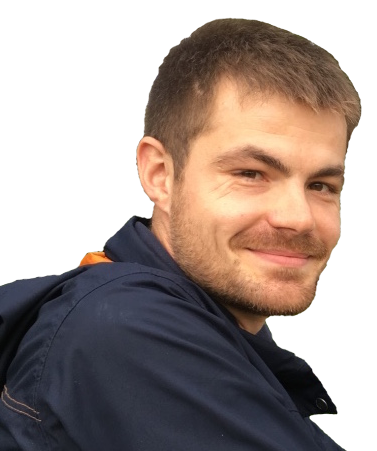
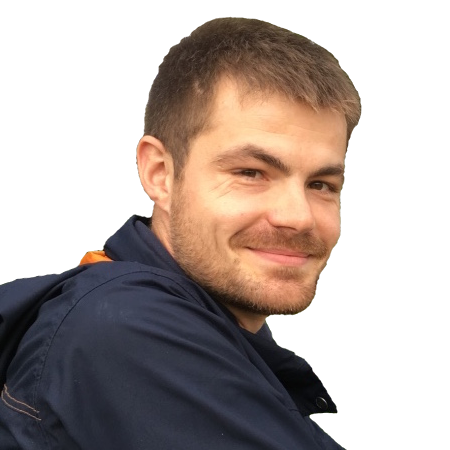
finish tablet and desktop homepage

diff --git a/style.css b/style.css
@@ -11,6 +11,14 @@ body {
 
 h1 {
     font-size: 1.3em;
+    margin-left: 5px;
+    text-align: center;
+}
+
+header {
+    display: flex;
+    justify-content: space-around;
+    align-items: center;
 }
 
 /* Sidenav menu */
@@ -87,19 +95,34 @@ main {
     height: 90vh;
 }
 
+.side {
+    display: flex;
+    flex-direction: column;
+    align-items: center;
+    justify-content: space-around;
+    height: 55vh;
+}
+
 h2 {
     font-size: 1.2em;
     color: #FEAF4C;
 }
 
-img {
+.home .profile-pic-mobile {
     display: block;
-    width: 60vw;
-    height: auto;
+    width: 175px;
+    height: 175px;
     margin: 10px auto;
+    background-image: url('img/profil_velo_mobile.png');
+    background-position: center;
+    background-size: cover;
     background-color: #5c627c;
     border: 2px solid #FEAF4C;
     border-radius: 50%;
+}
+
+.home p {
+    width: 80vw;
 }
 
 .btn {
@@ -107,4 +130,134 @@ img {
     color: #43485B;
     font-weight: bold;
     width: 60vw;
+    max-width: 250px;
+}
+
+/* !! Nav version tablette et desktop, cachée en version mobile !! */
+
+.highres-nav {
+    display: none;
+}
+
+.profile-pic {
+    display: none;
+}
+
+@media screen and (min-width: 672px) {
+
+    /* BODY */
+
+    body {
+        margin: 10px 20px ;
+    }
+
+    /* HEADER */
+
+    /* !! Nav version mobile, cachée en version tablette et desktop !! */
+    #openBtn {
+        display: none;
+    }
+
+    header {
+        justify-content: space-between;
+    }
+
+    .highres-nav {
+        display: block;
+    }
+
+    nav ul {
+        display: flex;
+        justify-content: space-between;
+        align-items: center;
+    }
+
+    nav li {
+        font-size: 0.8em;
+        list-style-type: none;
+    }
+
+    nav a {
+        color: #FBEFD2;
+        text-decoration: none;
+        margin-right: 10px;
+        padding: 2px 4px;
+        box-shadow: 0px 0px 2px black;
+    }
+
+    h1 {
+        font-size: 0.9em;
+    }
+}
+
+@media screen and (min-width: 990px) {
+
+    h1 {
+        font-size: 1.7em;
+    }
+
+    .home .profile-pic-mobile {
+        display: none;
+    }
+
+    .home {
+      display: grid; 
+      grid-template-columns: 50% 50%; 
+      grid-template-rows: 1fr; 
+      gap: 0px 0px; 
+      grid-template-areas: 
+        "profile-pic side"; 
+    }
+    
+    .profile-pic {
+        grid-area: profile-pic;
+        display: block;
+    }
+
+    .profile-pic img {
+        position: absolute;
+        bottom: 0;
+        left: 0;
+        width: auto;
+        height: 80vh;
+        max-width: 60vw;
+    }
+    
+    .side {
+        grid-area: side;
+        display: flex;
+        flex-direction: column;
+        align-content: space-around;
+        height: 90vh;
+        padding-top: 20px;
+    }
+
+    h2 {
+        font-size: 1.6em;
+    }
+
+    .catchphrase {
+        max-width: 40vw;
+        font-size: 1.5em;
+    }
+
+    .cta-btn {
+        font-size: 1.3em;
+        max-width: 300px;
+    }
+
+    .cta-btn:hover {
+        background-color: #5c627c;
+        color : #FEAF4C
+    }
+}
+
+@media screen and (min-width: 1296px) {
+    
+    body {
+        max-width: 1296px;
+        margin-left: auto;
+        margin-right: auto;
+        border: 2px solid red;
+    }
 }

diff --git a/index.html b/index.html
@@ -13,32 +13,53 @@
     <link rel="stylesheet" href="style.css">
 </head>
 <body>
-    <header class="d-flex justify-content-around align-items-center">
-        <div id="mySidenav" class="sidenav">
-            <i id="closeBtn" href="#" class="bi bi-x-circle close"></i>
-            <ul>
-              <li><a href="#"><i class="bi bi-house"></i> Accueil</a></li>
-              <li><a href="#"><i class="bi bi-file-earmark-person"></i> À propos</a></li>
-              <li><a href="#"><i class="bi bi-pen"></i> Services</a></li>
-              <li><a href="#"><i class="bi bi-card-checklist"></i> Réalisations</a></li>
-              <li><a href="#"><i class="bi bi-envelope"></i> Contacts</a></li>
-            </ul>
-          </div>
+    <header>
+      
+      <!-- nav mobile   -->
+      <div id="mySidenav" class="sidenav">
+        <i id="closeBtn" href="#" class="bi bi-x-circle close"></i>
+          <ul>
+            <li><a href="#"><i class="bi bi-house"></i> Accueil</a></li>
+            <li><a href="#"><i class="bi bi-file-earmark-person"></i> À propos</a></li>
+            <li><a href="#"><i class="bi bi-pen"></i> Services</a></li>
+            <li><a href="#"><i class="bi bi-card-checklist"></i> Réalisations</a></li>
+            <li><a href="#"><i class="bi bi-envelope"></i> Contacts</a></li>
+          </ul>
+      </div>
           
-          <a href="#" id="openBtn">
-            <i class="bi bi-list"></i>
-          </a>
-        </div>
-        <h1>Alexis Boucherie</h1>
+      <a href="#" id="openBtn">
+        <i class="bi bi-list"></i>
+      </a>
+      
+      <h1>Alexis Boucherie</h1>
+        
+      <!-- nav tablette et desktop -->
+      <nav class="highres-nav">
+        <ul>
+          <li><a href="#">Accueil</a></li>
+          <li><a href="#">À propos</a></li>
+          <li><a href="#">Services</a></li>
+          <li><a href="#">Réalisations</a></li>
+          <li><a href="#">Contacts</a></li>
+        </ul>
+      </nav>
     </header>
+    
     <main>
-        <div class="home d-flex flex-column justify-content-around align-items-center">
-            <img src="img/profil_velo_mobile.png" alt="Photo d'Alexis Boucherie">
-            <h2>Développeur Web</h2>
-            <p>"Construisons ensemble des solutions digitales à votre service."</p>
-            <button type="button" class="btn">Contactez-moi !</button>
+      <!-- homepage -->
+      <div class="home">
+        <div class="profile-pic-mobile"></div>
+        <div class="profile-pic">
+          <img src="img/profil_velo.png" alt="Photo d'Alexis Boucherie">
         </div>
+        <div class="side">
+          <h2 class="job">Développeur Web</h2>
+          <p class="catchphrase">"Construisons ensemble des solutions digitales à votre service."</p>
+          <button type="button" class="btn cta-btn">Contactez-moi !</button>
+        </div>
+      </div>
     </main>
+    
     <footer>
 
     </footer>
